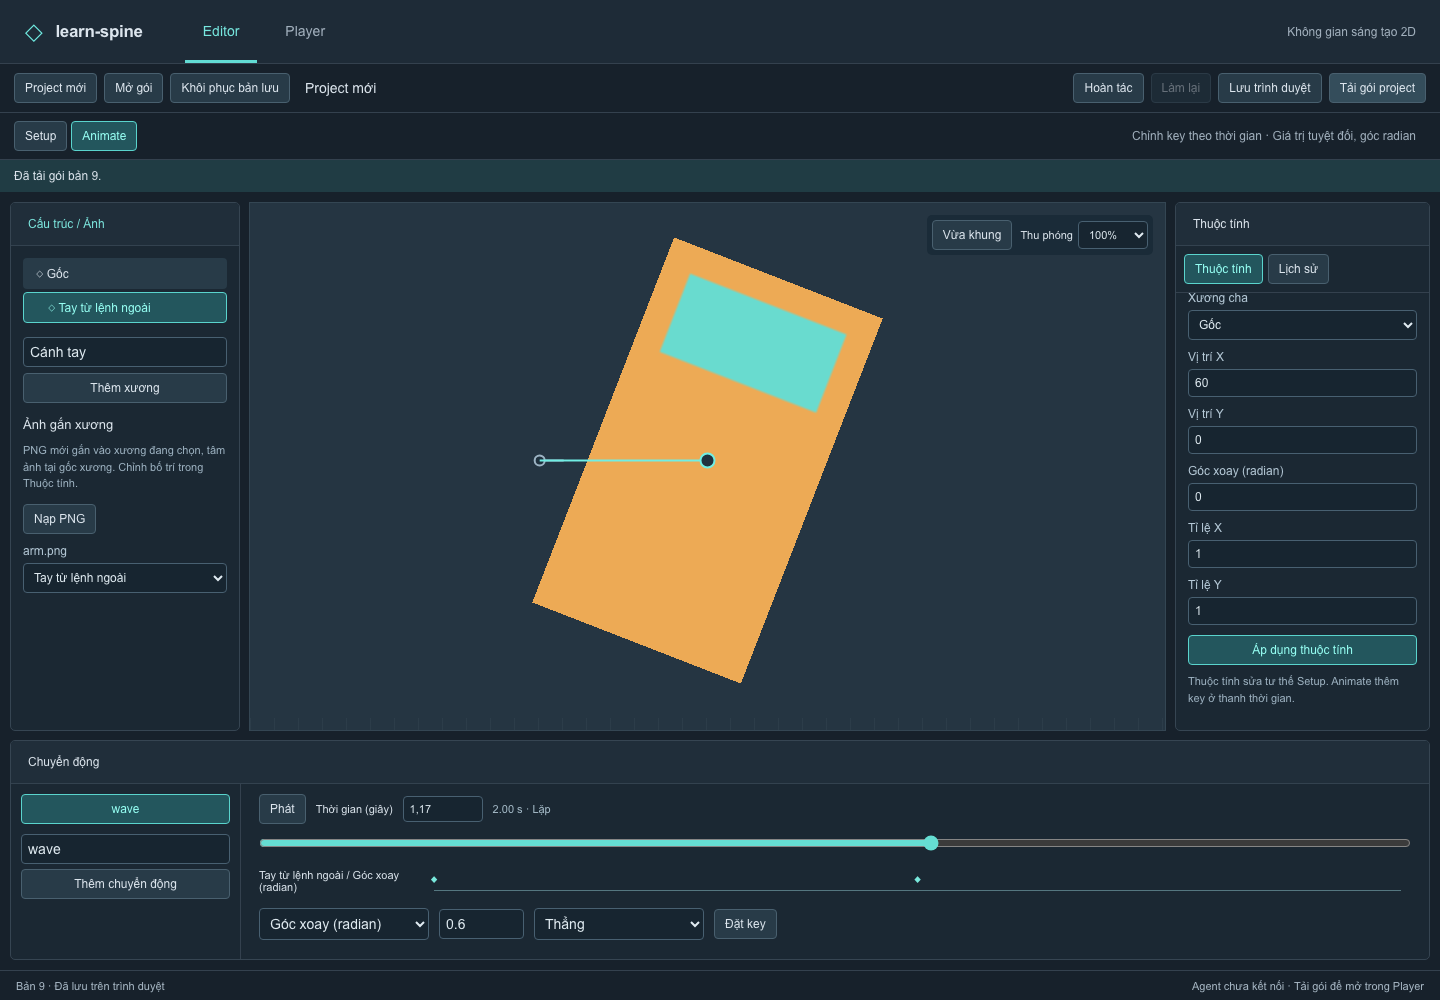
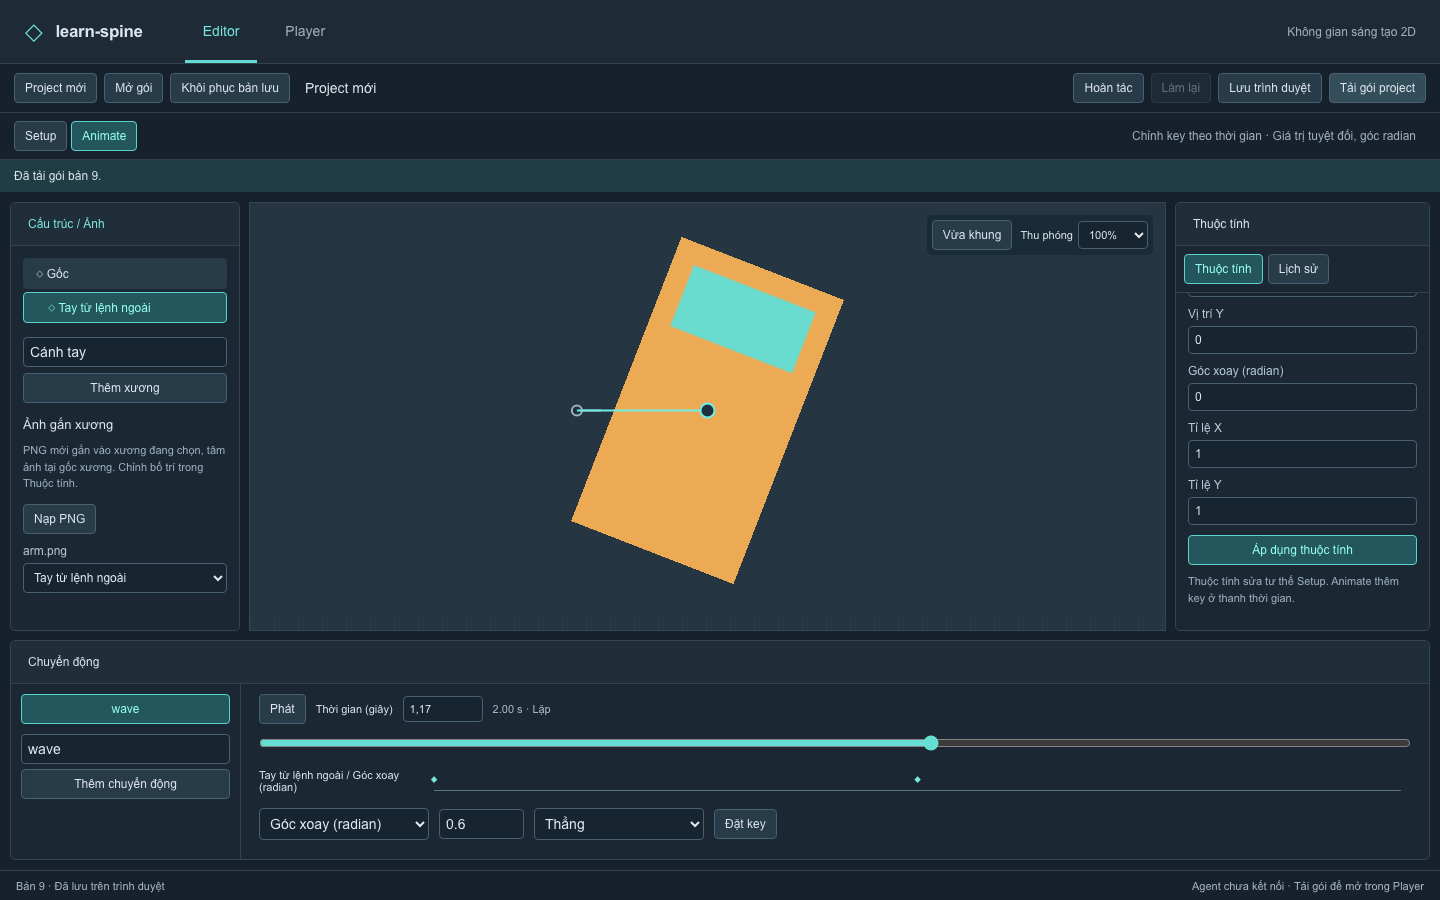
fix(editor): preserve selected key drafts and parent-first hierarchy

diff --git a/platform/apps/editor/Editor.tsx b/platform/apps/editor/Editor.tsx
@@ -5,7 +5,7 @@ import {
   useSyncExternalStore,
   type FormEvent,
 } from "react";
-import type { Bone, Operation, Transform } from "../../src/model/types";
+import type { Bone, Curve, Operation, Transform } from "../../src/model/types";
 import { EmptyState, Header, Panel } from "../shared/Shell";
 import { Stage, usePlayback } from "../shared/Stage";
 import { editorRuntime, identity, id, type EditorRuntime } from "./runtime";
@@ -17,6 +17,27 @@ const labels: Record<keyof Transform, string> = {
   scaleX: "Tỉ lệ X",
   scaleY: "Tỉ lệ Y",
 };
+/** Parent-first presentation only; the canonical collection order is left intact. */
+function boneRows(bones: Bone[]) {
+  const children = new Map<string | null, Bone[]>();
+  for (const bone of bones) {
+    const siblings = children.get(bone.parentId) ?? [];
+    siblings.push(bone);
+    children.set(bone.parentId, siblings);
+  }
+  const pending = (children.get(null) ?? [])
+    .slice()
+    .reverse()
+    .map((bone) => ({ bone, depth: 0 }));
+  const rows: { bone: Bone; depth: number }[] = [];
+  while (pending.length) {
+    const row = pending.pop()!;
+    rows.push(row);
+    for (const child of (children.get(row.bone.id) ?? []).slice().reverse())
+      pending.push({ bone: child, depth: row.depth + 1 });
+  }
+  return rows;
+}
 function BoneForm({
   bone,
   runtime,
@@ -49,6 +70,7 @@ function BoneForm({
       <label>
         Xương cha
         <select
+          aria-label="Xương cha"
           value={draft.parentId ?? ""}
           onChange={(e) =>
             setDraft({ ...draft, parentId: e.target.value || null })
@@ -129,13 +151,37 @@ export function Editor({
     playback.setTime(0);
     playback.setPlaying(false);
     setMode("setup");
+    setProperty("rotation");
+    setKeyValue("0");
+    setCurve({ type: "linear" });
   }, [sessionId]);
   const [panel, setPanel] = useState("properties"),
     [newBone, setNewBone] = useState("Xương mới"),
     [newAnimation, setNewAnimation] = useState("wave");
   const [property, setProperty] = useState<keyof Transform>("rotation"),
     [keyValue, setKeyValue] = useState("0"),
-    [curve, setCurve] = useState<"linear" | "stepped">("linear");
+    [curve, setCurve] = useState<Curve>({ type: "linear" });
+  const [keySource, setKeySource] = useState({ revision, sessionId });
+  const activeKey = animation?.channels
+    .find(
+      (channel) => channel.boneId === selected && channel.property === property,
+    )
+    ?.keys.find((key) => key.time === playback.time);
+  useEffect(() => {
+    setKeySource({ revision, sessionId });
+    if (activeKey) {
+      setKeyValue(String(activeKey.value));
+      setCurve(structuredClone(activeKey.curve));
+    }
+  }, [
+    sessionId,
+    revision,
+    animation?.id,
+    selected,
+    property,
+    playback.time,
+    activeKey,
+  ]);
   const bone = p?.bones.find((b) => b.id === selected);
   const history = session?.history();
   const mutation = (kind: "undo" | "redo") => {
@@ -156,10 +202,14 @@ export function Editor({
     channel.keys.push({
       time: playback.time,
       value: keyValue.trim() === "" ? NaN : Number(keyValue),
-      curve: { type: curve },
+      curve: structuredClone(curve),
     });
     channel.keys.sort((a, b) => a.time - b.time);
-    apply([{ kind: "putAnimation", value: updated }]);
+    runtime.apply(
+      [{ kind: "putAnimation", value: updated }],
+      keySource.revision,
+      keySource.sessionId,
+    );
   }
   return (
     <div className="application" data-workspace-state={p ? "open" : "empty"}>
@@ -264,18 +314,12 @@ export function Editor({
           {p ? (
             <div className="panel-content">
               <div role="tree" aria-label="Cây xương">
-                {p.bones.map((b) => {
-                  let depth = 0,
-                    parent = b.parentId;
-                  while (parent && depth < p.bones.length) {
-                    depth++;
-                    parent =
-                      p.bones.find((x) => x.id === parent)?.parentId ?? null;
-                  }
+                {boneRows(p.bones).map(({ bone: b, depth }) => {
                   return (
                     <button
                       role="treeitem"
                       aria-selected={selected === b.id}
+                      aria-level={depth + 1}
                       className="tree-row"
                       key={b.id}
                       style={{ paddingLeft: 12 + depth * 12 }}
@@ -587,6 +631,7 @@ export function Editor({
                                   setMode("animate");
                                   setProperty(c.property);
                                   setKeyValue(String(k.value));
+                                  setCurve(structuredClone(k.curve));
                                 }}
                               >
                                 ◆
@@ -619,13 +664,20 @@ export function Editor({
                       />
                       <select
                         aria-label="Nội suy key"
-                        value={curve}
-                        onChange={(e) =>
-                          setCurve(e.target.value as "linear" | "stepped")
-                        }
+                        value={curve.type}
+                        onChange={(e) => {
+                          const type = e.target.value;
+                          if (type === "linear" || type === "stepped")
+                            setCurve({ type });
+                        }}
                       >
                         <option value="linear">Thẳng</option>
                         <option value="stepped">Giữ bước</option>
+                        {curve.type === "bezier" && (
+                          <option value="bezier">
+                            Bezier (giữ đường cong)
+                          </option>
+                        )}
                       </select>
                       <button disabled={!bone}>Đặt key</button>
                     </form>

diff --git a/platform/tests/e2e/editor/workflow.spec.ts b/platform/tests/e2e/editor/workflow.spec.ts
@@ -372,3 +372,114 @@ test("opening an identical saved package recognizes the committed record, but eq
   expect(result.differentSaved).toBeNull();
   expect(result.error).toContain("Project đã thay đổi");
 });
+
+test("selected stepped and imported Bezier keys preserve their interpolation when only the value is edited", async ({
+  page,
+}) => {
+  await page.goto("/");
+  await page.getByRole("button", { name: "Project mới", exact: true }).click();
+  await expect(page.getByRole("treeitem")).toBeVisible();
+  await page
+    .getByRole("button", { name: "Thêm chuyển động", exact: true })
+    .click();
+  await page.getByLabel("Nội suy key").selectOption("stepped");
+  await page.getByRole("button", { name: "Đặt key", exact: true }).click();
+  await page.getByLabel("Thời gian (giây)", { exact: true }).fill("1");
+  await page.getByLabel("Nội suy key").selectOption("linear");
+  await page.getByLabel("Giá trị key").fill("1");
+  await page.getByRole("button", { name: "Đặt key", exact: true }).click();
+  await page
+    .getByRole("button", { name: "Key 0 Góc xoay (radian)", exact: true })
+    .click();
+  await expect(page.getByLabel("Nội suy key")).toHaveValue("stepped");
+  await page.getByLabel("Giá trị key").fill("0.4");
+  await page.getByRole("button", { name: "Đặt key", exact: true }).click();
+  expect((await inspect(page)).animations[0].channels[0].keys).toEqual([
+    { time: 0, value: 0.4, curve: { type: "stepped" } },
+    { time: 1, value: 1, curve: { type: "linear" } },
+  ]);
+  const bezier = { type: "bezier", x1: 0.2, y1: -0.3, x2: 0.7, y2: 1.4 };
+  await page.evaluate(
+    async ({ path, bezier }) => {
+      const { editorRuntime: r } = await import(/* @vite-ignore */ path);
+      const a = r.session.inspect().animations[0];
+      a.channels[0].keys[0].curve = bezier;
+      a.channels[0].keys[0].value = 2;
+      r.session.apply({
+        ...r.request(),
+        operations: [{ kind: "putAnimation", value: a }],
+      });
+    },
+    { path: root, bezier },
+  );
+  await expect(page.getByLabel("Nội suy key")).toHaveValue("bezier");
+  await expect(page.getByLabel("Giá trị key")).toHaveValue("2");
+  await page.getByRole("button", { name: "Đặt key", exact: true }).click();
+  expect((await inspect(page)).animations[0].channels[0].keys[0]).toEqual({
+    time: 0,
+    value: 2,
+    curve: bezier,
+  });
+  await page
+    .getByRole("button", { name: "Key 1 Góc xoay (radian)", exact: true })
+    .click();
+  await expect(page.getByLabel("Nội suy key")).toHaveValue("linear");
+  await page
+    .getByRole("button", { name: "Key 0 Góc xoay (radian)", exact: true })
+    .click();
+  await expect(page.getByLabel("Nội suy key")).toHaveValue("bezier");
+  await page.getByLabel("Giá trị key").fill("0.6");
+  await page.getByRole("button", { name: "Đặt key", exact: true }).click();
+  expect((await inspect(page)).animations[0].channels[0].keys[0]).toEqual({
+    time: 0,
+    value: 0.6,
+    curve: bezier,
+  });
+  await page.getByLabel("Nội suy key").selectOption("linear");
+  await page.getByRole("button", { name: "Đặt key", exact: true }).click();
+  expect((await inspect(page)).animations[0].channels[0].keys[0].curve).toEqual(
+    { type: "linear" },
+  );
+});
+
+test("reparenting presents children beneath their parent without sorting the model collection", async ({
+  page,
+}) => {
+  await page.goto("/");
+  await page.getByRole("button", { name: "Project mới", exact: true }).click();
+  await expect(page.getByRole("treeitem")).toBeVisible();
+  await page.getByLabel("Tên xương mới").fill("Tay");
+  await page.getByRole("button", { name: "Thêm xương", exact: true }).click();
+  await page.getByRole("treeitem", { name: "◇ Gốc", exact: true }).click();
+  await page.getByLabel("Tên xương mới").fill("Vai");
+  await page.getByRole("button", { name: "Thêm xương", exact: true }).click();
+  await page.getByRole("treeitem", { name: "◇ Tay", exact: true }).click();
+  await page
+    .getByLabel("Xương cha", { exact: true })
+    .selectOption({ label: "Vai" });
+  await page
+    .getByRole("button", { name: "Áp dụng thuộc tính", exact: true })
+    .click();
+  expect(await page.getByRole("treeitem").allTextContents()).toEqual([
+    "◇ Gốc",
+    "◇ Vai",
+    "◇ Tay",
+  ]);
+  await expect(
+    page.getByRole("treeitem", { name: "◇ Tay", exact: true }),
+  ).toHaveAttribute("aria-level", "3");
+  expect((await inspect(page)).bones.map((bone: any) => bone.name)).toEqual([
+    "Gốc",
+    "Tay",
+    "Vai",
+  ]);
+  await page.getByRole("button", { name: "Hoàn tác", exact: true }).click();
+  expect(await page.getByRole("treeitem").allTextContents()).toEqual([
+    "◇ Gốc",
+    "◇ Tay",
+    "◇ Vai",
+  ]);
+  await expect(
+    page.getByRole("treeitem", { name: "◇ Tay", exact: true }),
+  ).toHaveAttribute("aria-level", "2");
+});

diff --git a/platform/evidence/issue-12/README.md b/platform/evidence/issue-12/README.md
@@ -22,7 +22,7 @@ npm run test:browser
 npx playwright test -c editor.playwright.config.ts
 ```
 
-Actual outcomes: typecheck passed; 61 unit tests passed; production build passed;
+Actual outcomes: typecheck passed; 68 unit tests passed after integrating accepted #11; production build passed;
 default browser suite passed (built shell/navigation/responsive, real storage and
 editor integration); scoped editor suite passed. The build reports a >500 kB shared
 renderer/storage chunk warning, with no build failure. Exact counts and head are
@@ -88,3 +88,13 @@ editing, attachment pivot controls and richer animation settings remain outside 
 minimal UI; the canonical core still preserves and plays imported supported data.
 Camera fit samples the animation rather than proving all continuous extrema. Only
 Chromium/macOS was exercised here; no Safari/Firefox or animation performance gate claim.
+
+## Independent-review corrections
+
+The review of PR #43 identified three UI issues, now covered by browser regressions:
+selected stepped keys did not reload interpolation, external key writes left stale
+form values, and reparented children could appear before their parent. The key form
+now refreshes value and the complete Curve from the selected/current key, carries
+its inspected revision/session, and preserves imported Bezier control points unless
+interpolation is explicitly changed. The hierarchy is displayed parent-first while
+leaving the model array untouched; undo restores its prior relationship.

diff --git a/platform/apps/editor/README.md b/platform/apps/editor/README.md
@@ -59,8 +59,9 @@ ZIP download and never claims the current revision was saved in the browser.
 - Setup edits local x/y, rotation in **radians**, scaleX/scaleY and parent/name.
 - Animate creates a two-second looping animation; choose a property, time and absolute
   value, then Đặt key. It inserts/replaces that property's key at the current time.
-  The UI offers linear/stepped; imported Bezier channels remain intact unless that key
-  is explicitly replaced. Core/commands support full Bezier and arbitrary duration/loop.
+  The UI offers linear/stepped; imported Bezier channels remain intact when only the value is edited; choosing linear/stepped explicitly replaces its curve. Core/commands support full Bezier and arbitrary duration/loop.
+- The tree presents parents before children without changing the canonical collection order.
+- Key fields refresh from the current selected key after external commands, carry the inspected revision/session, and retain full imported Bezier control points.
 - Tree and canvas bone handles share selection. Inspector editing is Setup-only and
   says so explicitly; key editing is in the timeline. Advanced drag gizmos, curve editor,
   attachment pivot editor and configurable animation duration are outside this minimal UI.
